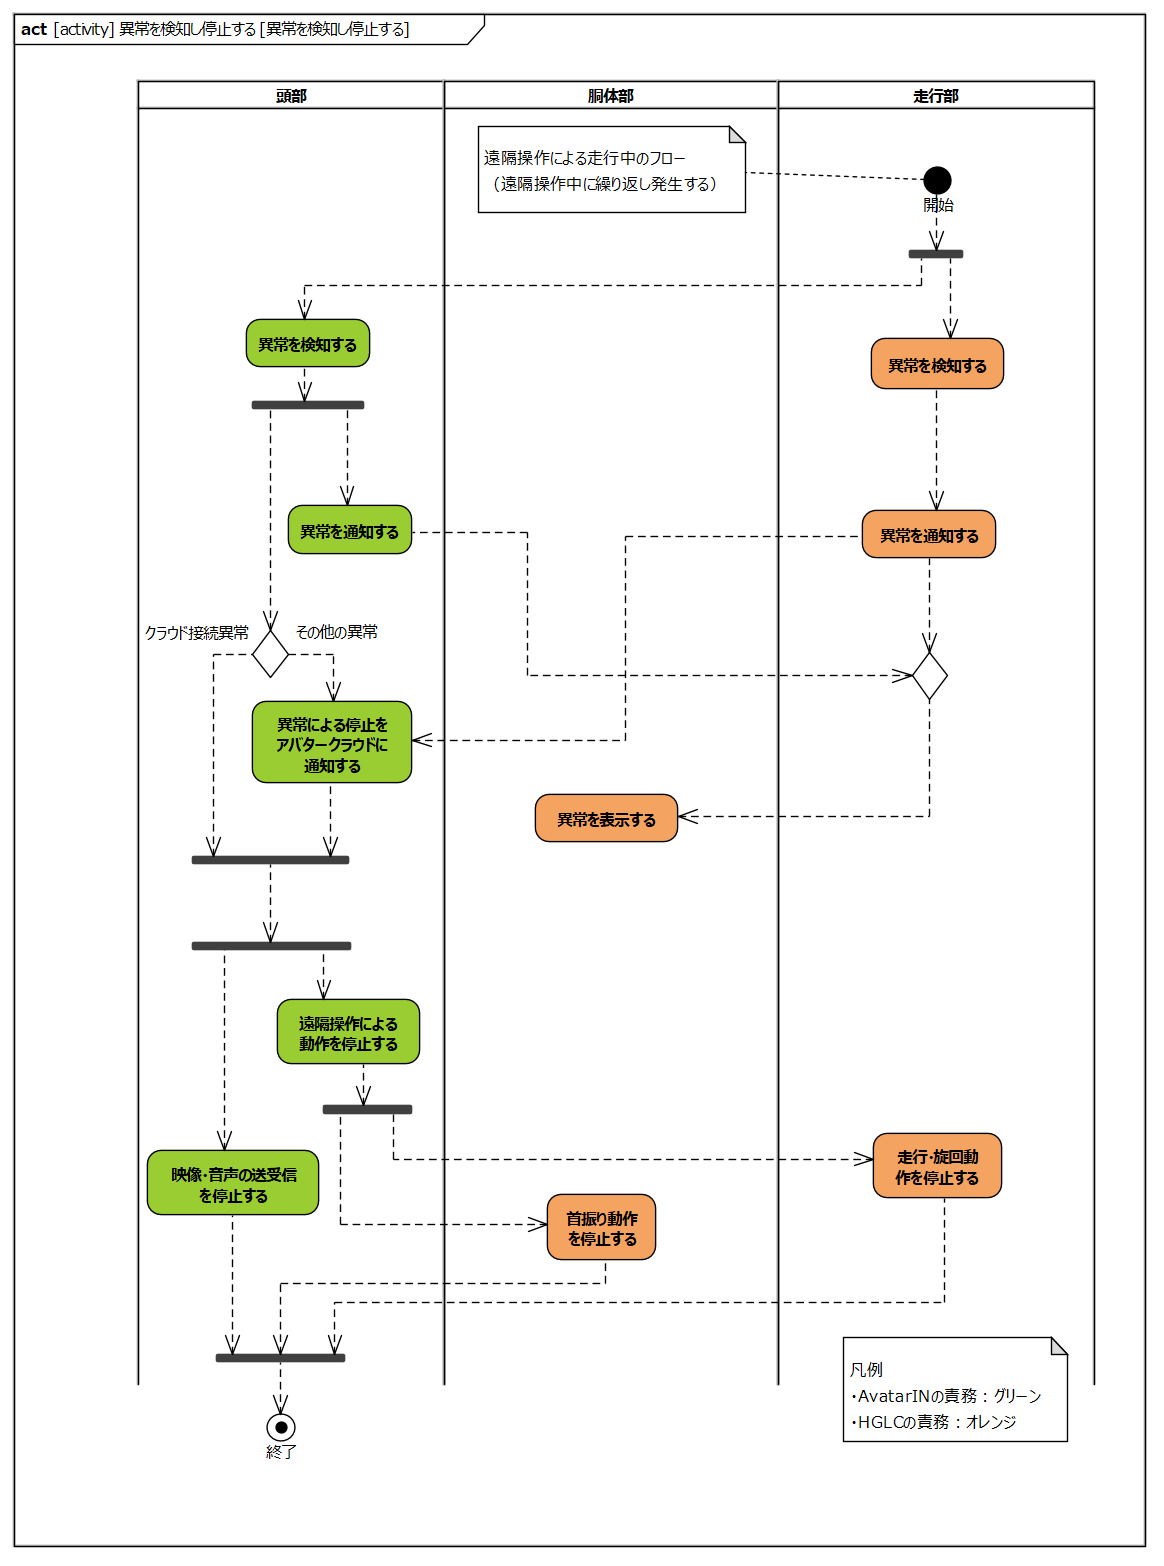
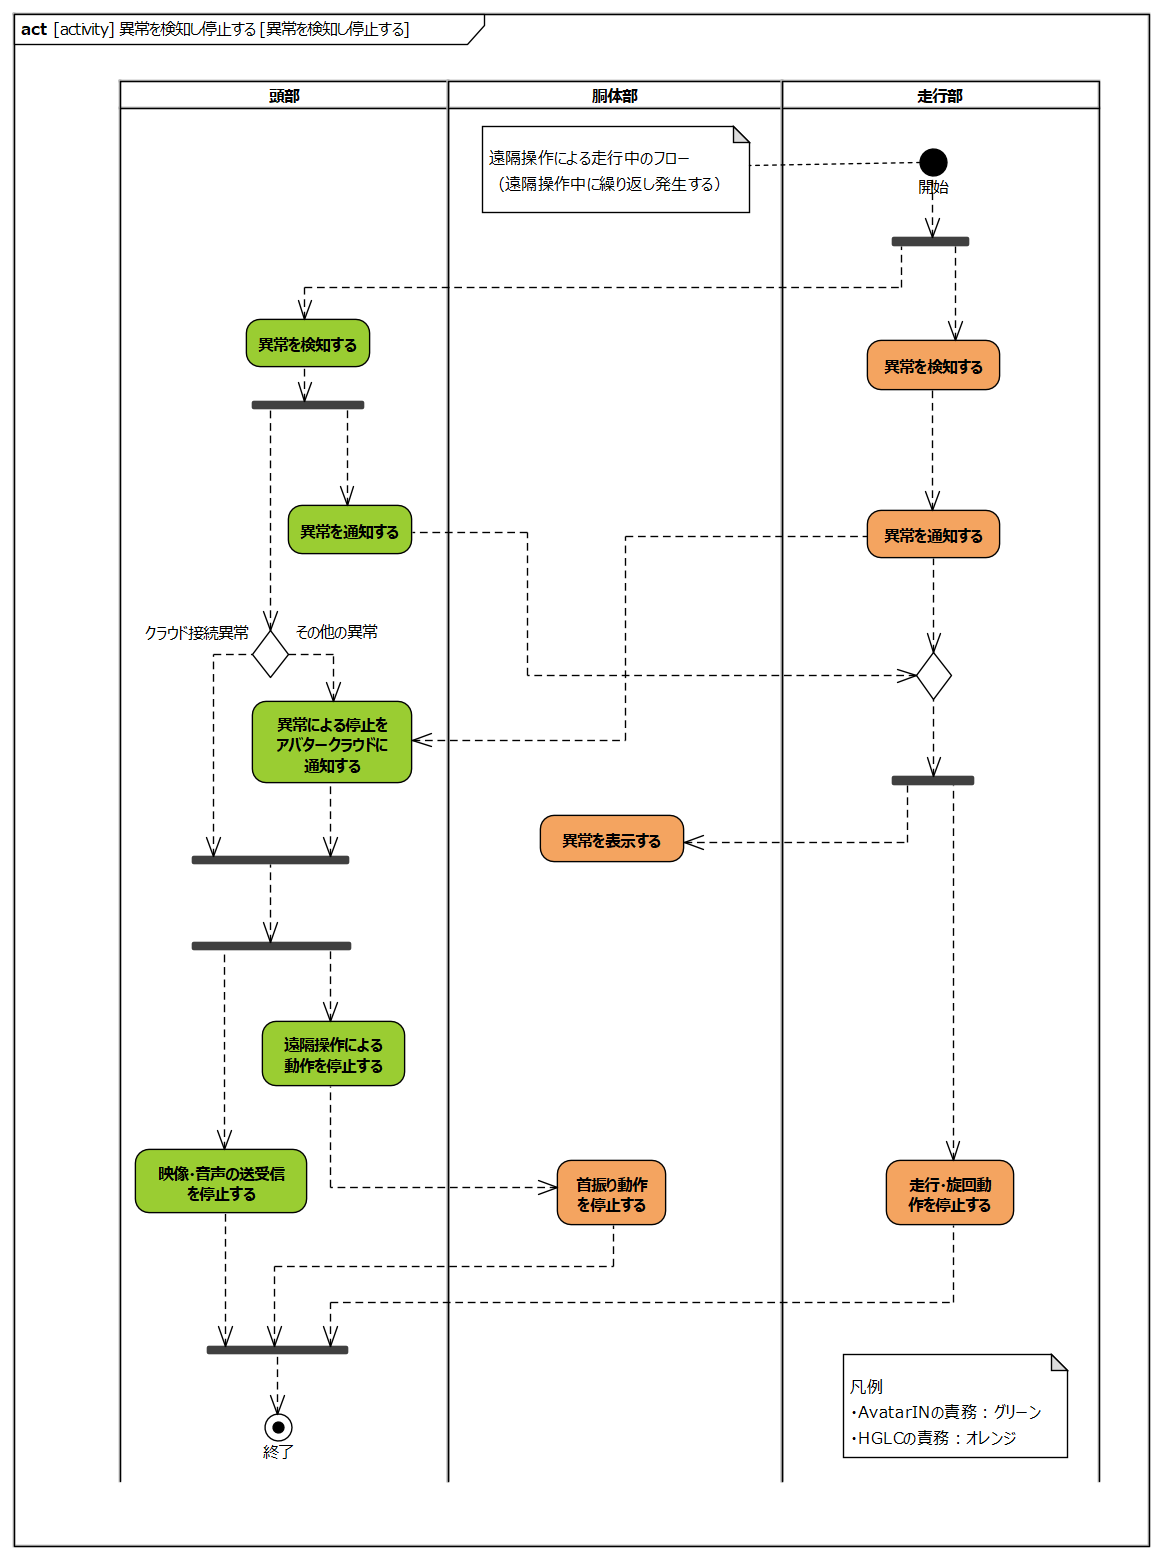
fix review from HGLC

diff --git a/requirements/requirement.md b/requirements/requirement.md
@@ -1067,7 +1067,7 @@ YES動作コマンドは首垂直動作に依存し、NO動作コマンドは首
 
 **テレプレゼンスロボット内部の処理**
 
-![](.images/activity/erea_detection.png)
+![](.images/activity/area_detection.png)
 
 - 事前条件
     - アバタークラウドへの接続が完了していること
@@ -1083,14 +1083,14 @@ YES動作コマンドは首垂直動作に依存し、NO動作コマンドは首
 
 |要求|備考|
 |:---|:---|
-|頭部は走行部からエリア信号を受信する||
-|頭部はエリア検知の設定を確認し、エリア検知設定が有効な場合のみエリア検知を行う||
-|頭部はエリア信号の強度に応じてエリアワイヤに対する減速・停止距離を判断する||
+|頭部は走行部からエリア検出値（内外判定、強度）を受信する||
+|頭部はエリア検出の設定を確認し、エリア検出設定が有効な場合のみエリア検出を行う||
+|頭部はエリア検出値の強度に応じてエリアワイヤに対する減速・停止距離を判断する||
 |頭部は減速距離に近づいたら、それをアバタークラウドに通知する||
 |頭部は減速距離に近づいたら、走行コマンドの速度を制限する||
 |頭部は停止距離に近づいたら、それをアバタークラウドに通知する||
 |頭部は停止距離に近づいたら、走行コマンドの速度を0にする||
-|走行部エリアワイヤとの間に生じるエリア信号を頭部に転送する||
+|走行部はエリアワイヤとの間に生じるエリア信号からエリア検出を行いエリア検出値を送信する||
 |走行部は頭部からの走行コマンドの速度制限指示にしたがい走行速度を落とす||
 |走行部は頭部からの走行コマンドの速度0指示にしたいがい走行を停止する||
 
@@ -1171,7 +1171,7 @@ YES動作コマンドは首垂直動作に依存し、NO動作コマンドは首
 |胴体部は頭部からの指示を受けて首振り動作を停止する||
 |走行部は走行部内の異常を検知する||
 |走行部は走行部内の異常を頭部に通知する||
-|走行部は頭部からの指示を受けて走行・旋回動作を停止する||
+|走行部は異常を検知したら走行・旋回動作を停止する|頭部の指示は待たない|
 
 <div style="page-break-before:always"></div>
 
